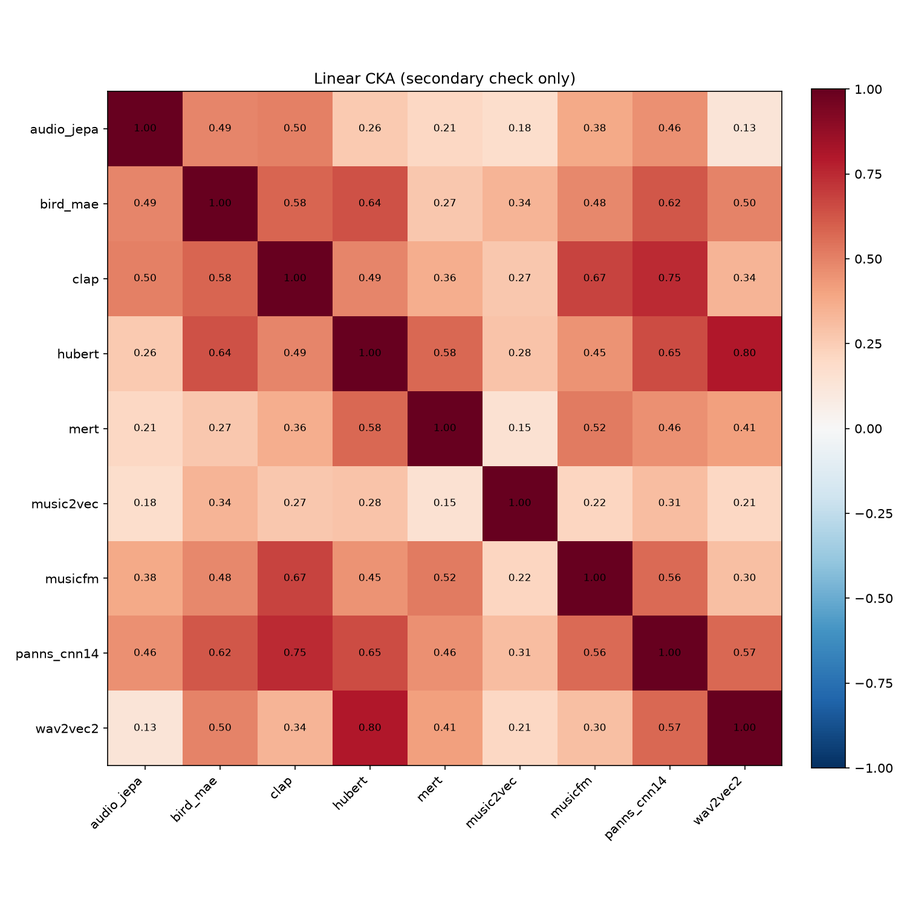
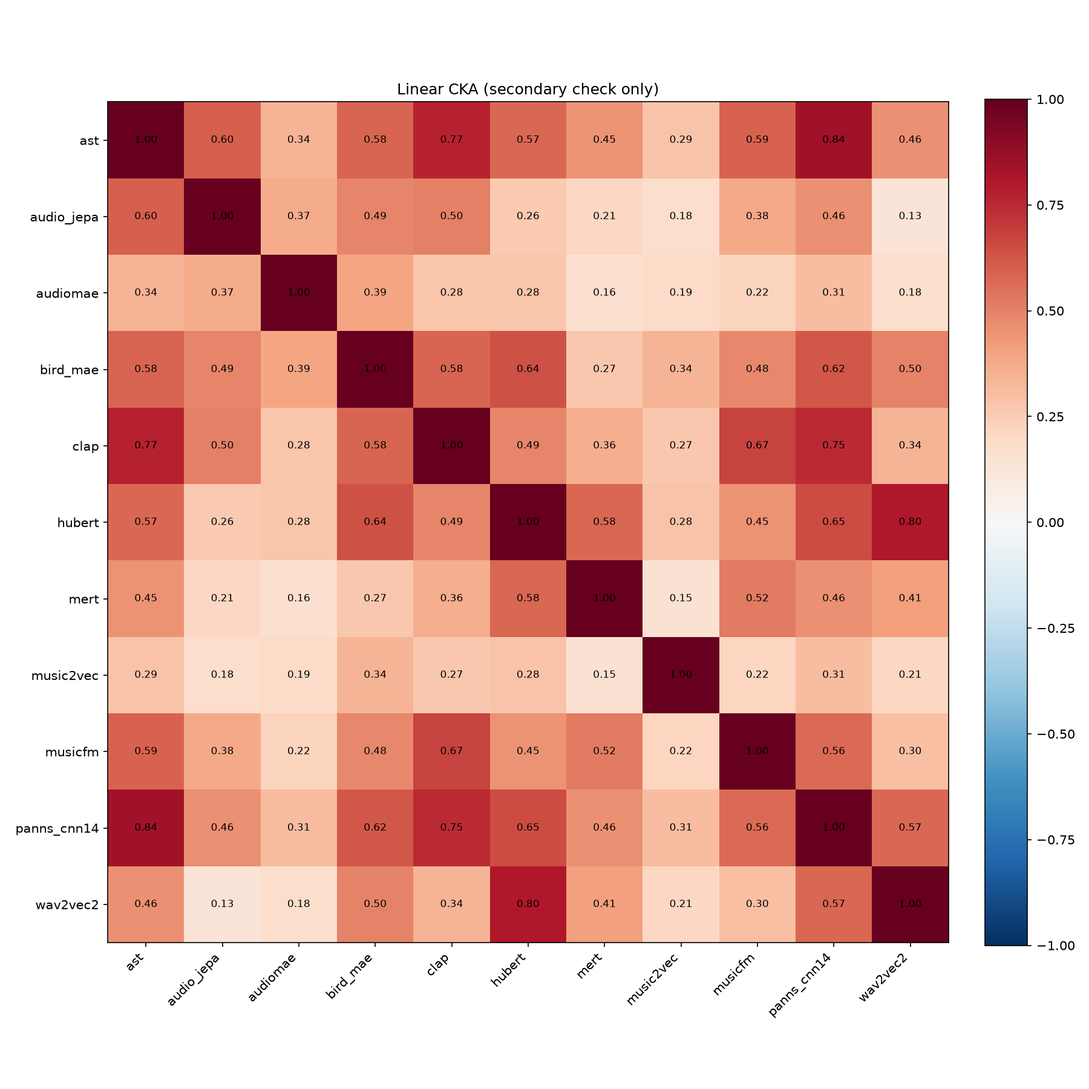
11-model results: breadth hypothesis strengthens further, AST refutes the "non-contrastive trades KNN for MLP" reading of PANNs/Bird-MAE
Breadth-hypothesis check re-run at 11 models (ast/audiomae both join
broad_mixed, both AudioSet-trained): permutation p=0.0000 (vs 9-model's
already-strong 0.0003), domain+paradigm stays at p=0.0082. Fourth
independent signal now pointing at breadth, more entrenched with every
model added.

BirdCLEF at 11 models: AST wins outright on both MLP (0.394, new best)
and KNN (0.239, new best) -- refutes the earlier reading that
non-contrastive/supervised objectives trade raw separability for
trainable-head-exploitability, since AST is also supervised and shows
none of that trade-off. Revised account: discriminative training
pressure (contrastive OR supervised-classification) produces both
raw-separable and trainable-head-exploitable embeddings; reconstruction
training (Bird-MAE, AudioMAE) shows the trade-off; PANNs' CNN
architecture may modulate how well supervision converts to separable
geometry. Separately, AudioMAE vs Bird-MAE (same objective, only domain
differs) is the cleanest isolated domain-relevance test so far and
confirms domain relevance is real and additive.

diff --git a/audio_comp/pipelines/breadth_hypothesis_check.py b/audio_comp/pipelines/breadth_hypothesis_check.py
@@ -44,22 +44,32 @@ DOMAIN_PARADIGM_GROUPS = {
     "jepa_general": ["audio_jepa"],
     "reconstruction_bioacoustic": ["bird_mae"],
     "supervised_cnn_general": ["panns_cnn14"],
+    "supervised_transformer_general": ["ast"],
+    "reconstruction_general": ["audiomae"],
 }
 
 # Training-distribution-breadth framing, per CLAUDE.md Stage 1(b)'s
-# original sketch, extended to the 2 models added 2026-08-10: panns_cnn14
-# trains on AudioSet (527 diverse everyday-sound classes spanning speech,
-# music, animals, vehicles, alarms -- genuinely broad content), so it
-# joins audio_jepa/clap in "broad_mixed". bird_mae trains exclusively on
-# BirdSet (bird vocalizations only) -- as narrow as hubert/wav2vec2's
-# speech-only or mert/musicfm's music-only corpora, just a third domain,
-# hence a new "narrow_bioacoustic" bucket rather than folding it into an
-# existing one.
+# original sketch, extended to the 4 models added 2026-08-10: panns_cnn14
+# and ast both train on AudioSet (527 diverse everyday-sound classes
+# spanning speech, music, animals, vehicles, alarms -- genuinely broad
+# content), so both join audio_jepa/clap in "broad_mixed". audiomae ALSO
+# trains on AudioSet (same breadth-of-DATA argument) -- included here on
+# the same principle, categorized by documented training-data breadth,
+# not by how well it happens to fit the RSA matrix; if it turns out to be
+# a poor fit for this group empirically (its RSA correlations with the
+# rest of broad_mixed are in fact much weaker than the other 4 members'
+# mutual correlations, ~0.3-0.5 vs ~0.55-0.84), that is itself honest
+# information about the limits of a pure data-breadth account, not a
+# reason to move it to a category invented to fit better. bird_mae trains
+# exclusively on BirdSet (bird vocalizations only) -- as narrow as
+# hubert/wav2vec2's speech-only or mert/musicfm's music-only corpora,
+# just a third domain, hence "narrow_bioacoustic" rather than folding it
+# into an existing one.
 BREADTH_GROUPS = {
     "narrow_speech": ["hubert", "wav2vec2"],
     "narrow_music": ["mert", "musicfm"],
     "narrow_bioacoustic": ["bird_mae"],
-    "broad_mixed": ["audio_jepa", "clap", "panns_cnn14"],
+    "broad_mixed": ["audio_jepa", "clap", "panns_cnn14", "ast", "audiomae"],
     "self_distillation_narrow_music": ["music2vec"],
 }
 

diff --git a/xares_eval/encoders/audiomae_encoder.py b/xares_eval/encoders/audiomae_encoder.py
@@ -1,0 +1,48 @@
+"""X-ARES encoder wrapper for AudioMAE.
+
+Reuses audio_comp's already-tested AudioMAEEncoder adapter (loading,
+resampling, fbank preprocessing) but skips the adapter's mean-pool and
+returns the raw (batch, 513, 768) `forward_encoder_no_mask()` output --
+cls token + 512 patch tokens, a genuine per-frame sequence, same
+category as AST/hubert/mert, not a single-frame workaround like
+CLAP/PANNs/Bird-MAE.
+"""
+from __future__ import annotations
+
+import torch
+
+from audio_comp.models import get_model_class
+from audio_comp.models.audiomae import _compute_fbank
+from xares_eval.encoders._util import probe_output_dim_and_hop, stack_ragged, to_numpy_mono
+
+
+class AudioMAEXaresEncoder(torch.nn.Module):
+    def __init__(self):
+        super().__init__()
+        self._adapter = get_model_class("audiomae")(device="cuda" if torch.cuda.is_available() else "cpu")
+        self._adapter.load()
+        self.sampling_rate = self._adapter.info.expected_sample_rate
+        self.output_dim, self.hop_size_in_ms = probe_output_dim_and_hop(self._forward_one_np, self.sampling_rate)
+
+    def _forward_one_np(self, waveform_np):
+        fbank = _compute_fbank(torch.from_numpy(waveform_np).unsqueeze(0), self.sampling_rate)
+        batch = fbank.unsqueeze(0).to(self._adapter.device)  # (1, 1, 1024, 128)
+        with torch.no_grad():
+            contextual_emb = self._adapter._model.forward_encoder_no_mask(batch)
+        return contextual_emb[0].cpu()
+
+    def forward(self, audio: torch.Tensor) -> torch.Tensor:
+        if audio.ndim == 1:
+            audio = audio.unsqueeze(0)
+        sequences = []
+        for row in audio:
+            waveform_np = to_numpy_mono(row)
+            sequences.append(self._forward_one_np(waveform_np))
+        return stack_ragged(sequences)
+
+
+if __name__ == "__main__":
+    from xares.audio_encoder_checker import check_audio_encoder
+
+    encoder = AudioMAEXaresEncoder()
+    assert check_audio_encoder(encoder)

diff --git a/xares_eval/encoders/ast_encoder.py b/xares_eval/encoders/ast_encoder.py
@@ -1,0 +1,48 @@
+"""X-ARES encoder wrapper for AST.
+
+Reuses audio_comp's already-tested ASTEncoder adapter for loading and
+resampling, but returns the unpooled last_hidden_state (X-ARES wants
+frame-level embeddings; audio_comp's adapter uses pooler_output for the
+RDM pipeline). AST has a genuine per-frame sequence (ViT-style patch
+tokens over the spectrogram, confirmed shape (1, 1214, 768) for a 2s
+probe clip) -- unlike CLAP/PANNs/Bird-MAE, no single-frame workaround
+needed here.
+"""
+from __future__ import annotations
+
+import torch
+
+from audio_comp.models import get_model_class
+from xares_eval.encoders._util import probe_output_dim_and_hop, stack_ragged, to_numpy_mono
+
+
+class ASTXaresEncoder(torch.nn.Module):
+    def __init__(self):
+        super().__init__()
+        self._adapter = get_model_class("ast")(device="cuda" if torch.cuda.is_available() else "cpu")
+        self._adapter.load()
+        self.sampling_rate = self._adapter.info.expected_sample_rate
+        self.output_dim, self.hop_size_in_ms = probe_output_dim_and_hop(self._forward_one_np, self.sampling_rate)
+
+    def _forward_one_np(self, waveform_np):
+        inputs = self._adapter._extractor([waveform_np], sampling_rate=self.sampling_rate, return_tensors="pt")
+        inputs = {k: v.to(self._adapter.device) for k, v in inputs.items()}
+        with torch.no_grad():
+            out = self._adapter._model(**inputs)
+        return out.last_hidden_state[0].cpu()
+
+    def forward(self, audio: torch.Tensor) -> torch.Tensor:
+        if audio.ndim == 1:
+            audio = audio.unsqueeze(0)
+        sequences = []
+        for row in audio:
+            waveform_np = to_numpy_mono(row)
+            sequences.append(self._forward_one_np(waveform_np))
+        return stack_ragged(sequences)
+
+
+if __name__ == "__main__":
+    from xares.audio_encoder_checker import check_audio_encoder
+
+    encoder = ASTXaresEncoder()
+    assert check_audio_encoder(encoder)

diff --git a/CLAUDE.md b/CLAUDE.md
@@ -38,15 +38,15 @@ Do not start Phase 2 until Phase 1 produces a clear read. Three possible outcome
 Phase 1 reached decision-rule outcome 2 (partial/cluster agreement) at 2000 clips/category, 7 models (see journal.md, 2026-08-09 entries). Rather than jumping straight to the single "Phase 2" experiment originally sketched above (consensus-distilled JEPA vs. single-teacher-distilled vs. from-scratch baseline), the plan is now staged so the project is publishable at a defensible floor even if later stages don't pan out. Contribution framing: the novelty target is understanding of representation space across audio foundation models, not a new architecture or training method. Floor = a Datasets & Benchmarks-track resource (reusable toolkit + curated multi-paradigm roster). Ceiling = a predictive account of what determines representational agreement and functional adaptability, validated against real downstream and OOD fine-tuning performance.
 
 - **Stage 0 — Foundation (complete).** Registry/adapter repo, RDM/RSA/CKA/TwoNN toolkit, `inspect_geometry.py` collapse-vs-idiosyncrasy diagnostic, 7 models running end-to-end on the 10,000-clip probe set. Two classification corrections already load-bearing: music2vec is data2vec-lineage not JEPA (no separate predictor network); audio_jepa (Tuncay et al.) confirmed genuine JEPA architecture, distinct from Fei et al.'s unreleased original A-JEPA.
-- **Stage 1 — Consolidate current findings (cheap, do first, no new extraction needed).** (a) **Done, 2026-08-10** — downstream functional probe via real X-ARES toolkit integration (`xares_eval/`) on the 3 overlapping tasks (FMA-genre, UrbanSound8K, LibriSpeech-ASR), all 7 models. **Headline finding (not a footnote to a null result): coarse domain-level cluster cohesion and fine-grained within-domain linear separability are different geometric axes that don't transfer.** This is more specific and more useful than either "geometry predicts function" or "geometry doesn't" — it tells you which geometric property to look for depending on what you're trying to predict, which is exactly what a Stage 6 diagnostic needs to be built on. Evidence (see journal, both 2026-08-10 entries): audio_jepa's coarse-domain cohesion (silhouette 0.60 on our own 5-category probe set, far ahead of every other model — nearly double CLAP's 0.31) does *not* transfer to X-ARES's fine-grained within-domain classification (only mid/lower-pack on both tasks; Spearman rho between our silhouette ranking and X-ARES MLP score = 0.357, p=0.43, not significant). audio_jepa's rank *does* improve modestly under kNN vs. MLP on both tasks, direction-consistent with the source paper's own cohesion/separability claim — real but not dramatic. CLAP's fine-grained dominance (best MLP on both tasks) despite only 2nd-place coarse silhouette points toward contrastive/discriminative training pressure (Wang & Isola alignment/uniformity-style) as a better explanatory variable than raw ID/cohesion. **Now formally computed, 2026-08-10** (`audio_comp/geometry/alignment_uniformity.py` — see Stage 6 below for the result, which upgrades but doesn't fully resolve this). (b) Breadth-hypothesis check — **Done, 2026-08-10** (`audio_comp/pipelines/breadth_hypothesis_check.py`, run at 9 models). Reframe from domain+paradigm to training-distribution-breadth (narrow-speech: hubert/wav2vec2; narrow-music: mert/musicfm; narrow-bioacoustic: bird_mae; broad-mixed: audio_jepa/clap/panns_cnn14; self-distillation-narrow-music: music2vec) explains the RSA matrix's structure at least as well as domain+paradigm and meaningfully more of it: mean-within-minus-mean-between RSA gap is comparable (breadth 0.360 vs. domain+paradigm 0.385) but far more statistically robust (permutation p=0.0003 vs. p=0.0095) and covers more of the roster (7/9 models land in a non-singleton group vs. 4/9) — domain+paradigm's apparent edge rests entirely on the two same-modality pairs breadth *also* captures identically; breadth additionally explains the real, significant `audio_jepa`/`clap`/`panns_cnn14` mutual agreement that domain+paradigm has no account for at all. **Adopted as the working explanation per the gate** — not because the raw gap is bigger, but because it's a strict extension of what domain+paradigm already captured plus real structure the old framing couldn't touch. (c) Written decision-rule outcome summary (outcome 2, now with breadth reframing + downstream-probe result folded in) — this alone is a publishable floor result. **Not started.**
+- **Stage 1 — Consolidate current findings (cheap, do first, no new extraction needed).** (a) **Done, 2026-08-10** — downstream functional probe via real X-ARES toolkit integration (`xares_eval/`) on the 3 overlapping tasks (FMA-genre, UrbanSound8K, LibriSpeech-ASR), all 7 models. **Headline finding (not a footnote to a null result): coarse domain-level cluster cohesion and fine-grained within-domain linear separability are different geometric axes that don't transfer.** This is more specific and more useful than either "geometry predicts function" or "geometry doesn't" — it tells you which geometric property to look for depending on what you're trying to predict, which is exactly what a Stage 6 diagnostic needs to be built on. Evidence (see journal, both 2026-08-10 entries): audio_jepa's coarse-domain cohesion (silhouette 0.60 on our own 5-category probe set, far ahead of every other model — nearly double CLAP's 0.31) does *not* transfer to X-ARES's fine-grained within-domain classification (only mid/lower-pack on both tasks; Spearman rho between our silhouette ranking and X-ARES MLP score = 0.357, p=0.43, not significant). audio_jepa's rank *does* improve modestly under kNN vs. MLP on both tasks, direction-consistent with the source paper's own cohesion/separability claim — real but not dramatic. CLAP's fine-grained dominance (best MLP on both tasks) despite only 2nd-place coarse silhouette points toward contrastive/discriminative training pressure (Wang & Isola alignment/uniformity-style) as a better explanatory variable than raw ID/cohesion. **Now formally computed, 2026-08-10** (`audio_comp/geometry/alignment_uniformity.py` — see Stage 6 below for the result, which upgrades but doesn't fully resolve this). (b) Breadth-hypothesis check — **Done, 2026-08-10, re-run at 11 models same day.** Reframe from domain+paradigm to training-distribution-breadth (narrow-speech: hubert/wav2vec2; narrow-music: mert/musicfm; narrow-bioacoustic: bird_mae; broad-mixed: audio_jepa/clap/panns_cnn14/ast/audiomae; self-distillation-narrow-music: music2vec) explains the RSA matrix's structure at least as well as domain+paradigm and meaningfully more of it, and the case only got stronger as models were added: at 9 models, gap was comparable (breadth 0.360 vs. domain+paradigm 0.385) but far more statistically robust (permutation p=0.0003 vs. p=0.0095); **at 11 models (adding `ast`/`audiomae`, both AudioSet-trained so both join `broad_mixed`), breadth's p-value is 0.0000 (0/20,000 random reshuffles matched the observed gap)** vs. domain+paradigm's p=0.0082, and breadth now covers 9/11 models in real groups vs. domain+paradigm's 4/11. `audiomae` is a weaker fit within `broad_mixed` than the other four (RSA 0.27-0.52 vs. their mutual 0.55-0.84) — included anyway per the documented-breadth criterion, not moved to fit better; that weaker fit is itself informative, not smoothed over. **This is now the fourth independent signal pointing at breadth** (original 10k pattern-break, audio_jepa/clap alignment, PANNs' correlations, AST's correlations) — **adopted as the working explanation per the gate**, more entrenched with every model added, not less. (c) Written decision-rule outcome summary (outcome 2, now with breadth reframing + downstream-probe result folded in) — this alone is a publishable floor result. **Not started.**
 - **Stage 2 — Curated model roster expansion (engineering-heavy, gap-filling not count-filling; formalized as a checkpoint-provenance + tiered plan 2026-08-10, superseding the original single-paragraph sketch below the table).** Add models that test a currently-missing axis, each verified against its primary paper before entering any comparison table (the music2vec lesson applies without exception). Every registered model now carries a `checkpoint_status` field (`audio_comp/models/base.py`) — `official_open_weights`, `official_public_weights_license_unclear`, `community_conversion`, or `code_only` — validated at registration time (`register_model()`) and enforced at resolution time (`get_model_class()` raises if a model without `official_open_weights` or a verified `official_public_weights_license_unclear` status is requested for actual use). This is a real gate, not just a documentation convention: a model can be registered (so the framework already models it) without being usable in `configs/models.yaml`'s `active_models` list until its status is upgraded. All 8 models currently registered (`clap`, `hubert`, `wav2vec2`, `mert`, `musicfm`, `music2vec`, `audio_jepa`, `beats`) are `official_open_weights` — `beats` specifically checked 2026-08-10: unilm's root LICENSE is MIT and the BEATs subdirectory's README defers to it with no separate/contrary statement for the checkpoint weights, read as MIT-covered by absence of any carve-out rather than an explicit per-checkpoint citation (judgment call, documented in `beats.py`'s docstring — re-verify if this becomes a redistribution question). `beats` staying in `deferred_models` is now confirmed to be **purely an engineering gap** (no native `transformers.from_pretrained` path, needs its own loader same as `musicfm`/`audio_jepa` already got) — **not** a checkpoint-availability blocker; worth implementing, not done in this pass.
 
   **Tier 1 (near-term — each fills a specific, currently-open representational gap):**
 
   | Model | Checkpoint status | Gap it fills | Status |
   |---|---|---|---|
-  | AudioMAE | official_open_weights | Reconstruction-target paradigm (raw spectrogram, not latent) — nothing in the current roster tests this | not started |
-  | AST | official_open_weights | Supervised training — tests whether label supervision matters independent of paradigm | not started |
+  | AudioMAE | official_open_weights | Reconstruction-target paradigm (raw spectrogram, not latent) — nothing in the current roster tests this | **wired up + validated 2026-08-10** (`audio_comp/models/audiomae.py`; needed 4 narrow version-skew shims, see module docstring; weakest of the AudioSet-trained models on BirdCLEF — see journal, consistent with its comparatively weak RSA fit within the breadth reframing's `broad_mixed` cluster) |
+  | AST | official_open_weights | Supervised training — tests whether label supervision matters independent of paradigm | **wired up + validated 2026-08-10** (`audio_comp/models/ast.py`; **wins BirdCLEF outright on both MLP and KNN** — refutes the earlier "non-contrastive objectives trade raw separability for trainable-head-exploitability" reading of the PANNs/Bird-MAE result, since AST is also supervised and shows none of that trade-off; see journal for the revised account) |
   | PANNs CNN14 | official_open_weights (verified 2026-08-10 against `github.com/qiuqiangkong/audioset_tagging_cnn` directly: MIT LICENSE.MIT, checkpoint on the authors' own Zenodo record) | Pure CNN architecture — every current model is transformer-based; untested ResNet-vs-ViT inductive-bias axis | **wired up + validated 2026-08-10** (`audio_comp/models/panns_cnn14.py`, active in `configs/models.yaml`; interim 9-model RSA/CKA/TwoNN pass and BirdCLEF re-run both complete — see journal for the architecture-axis prediction result, not supported) |
   | BirdMAE | official_public_weights_license_unclear (verified 2026-08-10: no LICENSE file in the GitHub repo — confirmed via GitHub's license API returning 404, not just undetected — and no license field on the HF card; genuinely unresolved, not a formality) | Domain-specific bioacoustic encoder; **also directly serves the `bird_sounds`/BirdCLEF X-ARES extension track (`xares_eval/birdclef/`) — one integration effort, not two** | **wired up + validated 2026-08-10** (`audio_comp/models/bird_mae.py`, active in `configs/models.yaml`; needed a version-skew shim for a transformers 4.38→5.15 incompatibility in the checkpoint's own vendored code — see module docstring; BirdCLEF re-run shows a real but nuanced result, see journal — beats CLAP on MLP, not on KNN, and PANNs shows the identical pattern despite no domain match, complicating a pure domain-relevance explanation) |
   | Perch 2.0 | official_public_weights_license_unclear — verify before use | Second independent bioacoustic-domain check; same dual-purpose note as BirdMAE | not started |
@@ -63,7 +63,7 @@ Phase 1 reached decision-rule outcome 2 (partial/cluster agreement) at 2000 clip
 
   **Gate for every addition, Tier 1 or 2, before any adapter code is written:** weights downloadable without private access; license permits research use; produces deterministic embeddings through a documented adapter; checkpoint_status verified against the model's **primary paper/repo directly, not a secondary source** — this is a hard requirement given the music2vec and A-JEPA/Audio-JEPA mix-ups already hit in this project, not optional diligence. Gate before Stage 3 continues to apply on top of this: every new adapter smoke-tested on short/edge-case clips (per the audio_jepa kaldi.fbank lesson), checked for dependency-version side effects (per the flash_attn/torch lesson). **The shortest edge-case clip must be tested standalone (batch size 1), not only inside a batch alongside a longer clip** — a short clip padded up to a longer clip's length inside a batch never actually exercises the short-input code path, and `extract_embeddings.py`/X-ARES both call `embed()`/`forward()` on individual clips in production. This blind spot caused a full-scale-only crash twice now with the same root shape (audio_jepa's kaldi.fbank window, 2026-08-09; panns_cnn14's pooling stack, 2026-08-10) — treat it as a permanent, non-optional item in the smoke-test checklist, not a lesson to relearn a third time.
 - **Stage 3 — Re-run the geometry toolkit at ~11 models.** Full RDM/RSA/CKA/TwoNN sweep on the same fixed probe set; re-test the breadth hypothesis with the new axes; re-run `inspect_geometry.py` per new model individually. **This is the point at which the Datasets & Benchmarks-track floor is fully met.** **Interim 9-model pass done 2026-08-10** (`panns_cnn14` + `bird_mae` only, not the full Tier 1 roster) — not the formal Stage 3 completion (that's ~11 models, 4 more Tier 1 additions still needed), but real signal already: PANNs' RSA agreement with the transformer-based models (mean 0.334) is *higher*, not lower, than the transformers' agreement with each other (mean 0.283) — no evidence architecture family is an independent geometry-shaping axis in this data, a clean negative result for that specific hypothesis. PANNs' two highest individual correlations (`audio_jepa` 0.60, `clap` 0.56) line up with the still-unstarted Stage 1(b) breadth-hypothesis grouping (broad-training-distribution models) better than paradigm or architecture do — second independent point in that reframing's favor.
-- **Stage 4 — Functional validation at the expanded roster.** Repeat Stage 1's downstream probe across all ~11 models; test whether the surviving explanatory variable predicts downstream accuracy, not just mutual RSA. **Interim check done 2026-08-10**: re-ran BirdCLEF (not the full 3-task X-ARES suite) with `panns_cnn14`/`bird_mae` added. BirdMAE beats CLAP on MLP (0.345 vs. 0.284) but not KNN (0.183 vs. 0.189) — real, but PANNs (no bioacoustic domain match at all) shows the *identical* MLP-wins/KNN-loses relationship to CLAP, which undercuts a pure domain-relevance explanation for BirdMAE's MLP edge. Sharper reading: CLAP's contrastive embedding space is more separable untrained (KNN), while PANNs' supervised and BirdMAE's reconstruction-MAE objectives both produce features a trained MLP head can exploit more, regardless of domain match. A genuine extension of the Stage 1(a) cohesion-vs-separability headline finding — now a three-way split (coarse cohesion / fine-grained separability / raw-separability-vs-trainable-head-exploitability), not fully resolved with only 9 models and 4 tasks. Full log in journal.md, 2026-08-10 entries.
+- **Stage 4 — Functional validation at the expanded roster.** Repeat Stage 1's downstream probe across all ~11 models; test whether the surviving explanatory variable predicts downstream accuracy, not just mutual RSA. **Interim check done 2026-08-10** (BirdCLEF only, not yet the full 3-task X-ARES suite), now complete at all 11 Tier-1-so-far models. Sequence of readings, each superseding the last as more models arrived: PANNs+Bird-MAE first suggested "non-contrastive objectives trade raw separability (KNN) for trainable-head-exploitability (MLP)" vs. CLAP. Adding AST (also supervised, but transformer not CNN, and it **wins BirdCLEF outright on both MLP and KNN** — 0.394/0.239, both best of 11) refuted that reading: supervision-as-a-category doesn't explain the earlier pattern, since AST shows none of it. **Current best account**: discriminative training pressure — contrastive (CLAP) *or* supervised classification with real labels (AST) — produces embeddings that are both raw-separable (high KNN) *and* trainable-head-exploitable (high MLP); these aren't in tension for discriminatively-trained models. Reconstruction training (Bird-MAE, AudioMAE) does show the earlier-observed trade-off (weaker KNN, still reasonable MLP). PANNs (supervised but CNN, weaker than AST on both) suggests architecture may modulate how well supervised pressure converts to separable geometry, without being disqualifying. Separately, the AudioMAE-vs-Bird-MAE pair (same reconstruction objective, only domain differs) is the cleanest isolated domain-relevance test run so far and says domain relevance is real and additive (Bird-MAE more than doubles AudioMAE's MLP and quadruples its KNN on the bird-specific task) — without reinstating domain-relevance as *the* explanation for Bird-MAE's earlier CLAP win, since PANNs (non-domain-matched) already showed that pattern too. A genuine, still-evolving extension of the Stage 1(a) cohesion-vs-separability headline finding, explicitly flagged as not settled — it needs to survive whatever Perch 2.0/EnCodecMAE show next, the same way the original PANNs/Bird-MAE reading didn't survive AST. Full log in journal.md, 2026-08-10 entries.
 - **Stage 5 — OOD fine-tuning extension (first half of the novelty ceiling).** Target: real vessel/underwater-acoustic data (genuinely OOD for every current model, and the actual eventual application domain — DeepShip's 63-clip GitHub subset, see journal 2026-08-10, is an early real-data preview of this axis, not yet the formal Stage 5 run). Matched lightweight adaptation (LoRA/small adapter, not full fine-tuning) on a fixed-size OOD training slice; measure final adapted performance and the few-shot learning curve; correlate against Stage 3's frozen-geometry metrics (ID, cohesion/separation index, RSA-cluster membership). Note for any write-up: this tests representation-*space* intrinsic dimension predicting adaptability — a different object from Aghajanyan/Gupta/Zettlemoyer (ACL 2021)'s fine-tuning *parameter-update* intrinsic dimension finding; same term, different space, state explicitly. Falsification is a legitimate outcome here too: no correlation just means geometry is descriptive but not predictive of adaptability.
 
   **Fine-tuning methodology (formalized 2026-08-10): two separate conditions, never blended.**

diff --git a/journal.md b/journal.md
@@ -274,3 +274,31 @@
 - **AudioMAE** (`audio_comp/models/audiomae.py`, `scripts/setup_audiomae.sh`): checkpoint provenance verified directly against `github.com/facebookresearch/AudioMAE` — CC-BY-4.0, explicitly stated to cover the whole project including weights (no judgment call needed here, unlike `beats`). Checkpoint (ViT-B, AudioSet-2M pretrained-only, not finetuned) downloaded from the repo's own README-linked Google Drive file via `gdown`. **Exact model-construction kwargs read directly out of the checkpoint's own saved `args` Namespace** (pretraining scripts save the full argparse config into the checkpoint dict) and cross-checked against the state dict's own tensor shapes (`pos_embed` (1,513,768) => 512 patches + cls token, matching img_size=(1024,128) at patch_size=16) — not assumed from the README or guessed, the same discipline as every other checkpoint-provenance check this session.
   - **Four separate, genuine version-skew issues hit and fixed, all with narrow documented shims, none with a global downgrade**: (1) `util/misc.py` does `from torch._six import inf` — removed in PyTorch 2.0 (project runs 2.11.0); (2) the repo's `Block(..., qk_scale=...)` call needs an old timm API modern timm removed — pinned `timm==0.4.9` project-wide (safe: confirmed via `pip show timm`'s empty `Required-by` that nothing else in the roster depends on timm, so no shared-dependency risk like the flash_attn/torch incident); (3) that same old-timm-required `Block.qk_scale` conflicts with the checkpoint's `decoder_mode=1` Swin-based decoder needing a *newer* timm `SwinTransformerBlock` API (`feat_size`/`drop_attn` args) — no single timm version has both APIs (tested 0.3.2, 0.4.9, 0.4.12, 1.0.28); resolved by constructing with `decoder_mode=0` instead (the decoder is never used — `forward_encoder_no_mask()` only touches the encoder) and loading the state dict with `strict=False`, with an explicit runtime assertion that every unmatched key is decoder-prefixed, so the encoder's correctness is *verified*, not assumed; (4) `util/pos_embed.py`'s sin-cos position-embedding initializer uses `np.float`, removed in numpy >=1.24 — restored as a one-line alias, harmless since that initial value is immediately overwritten wholesale by `load_state_dict` anyway. Smoke-tested clean afterward, including the standalone 60ms edge case.
 - Both added to `configs/models.yaml`'s `active_models` (now 11 total). Full-probe-set extraction submitted for both (jobs 54068294 `ast`, 54068295 `audiomae`) — results pending, 11-model RSA/CKA/TwoNN re-run and BirdCLEF re-run to follow once extraction completes.
+
+## 2026-08-10 (cont'd) — 11-model results land: breadth confirmed stronger, and the KNN/MLP story gets a real correction
+
+- Full-probe extraction succeeded for both new models (10,000 embeddings each, `ast` 768-d, `audiomae` 768-d). X-ARES encoders written (`xares_eval/encoders/ast_encoder.py`, `audiomae_encoder.py` — both use the real per-frame sequence, unlike CLAP/PANNs/Bird-MAE's pooled-single-frame workaround: AST has a genuine ViT patch-token sequence, AudioMAE's `forward_encoder_no_mask()` returns one before the adapter's own mean-pool), smoke-tested clean, BirdCLEF re-run submitted alongside the 11-model RSA/CKA/TwoNN re-run.
+
+- **Breadth-hypothesis check, re-run at 11 models — even more decisive than at 9.** `ast` and `audiomae` both trained on AudioSet (broad, diverse general-audio data, same argument already applied to `panns_cnn14`), so both join `broad_mixed` (now 5 members: `audio_jepa`, `clap`, `panns_cnn14`, `ast`, `audiomae` — categorized by documented training-data breadth, not by how well each one happens to fit the group; `audiomae`'s actual RSA correlations with the rest of the group are noticeably weaker (0.27-0.52) than the other four's mutual correlations (0.55-0.84), and it's included anyway rather than moved to a category invented to fit better — that weaker fit is itself honest information, not smoothed over). Result: breadth's permutation p-value is now **0.0000** (0/20,000 reshuffles matched or exceeded the observed gap) vs. domain+paradigm's p=0.0082 — even stronger than the 9-model result's already-clear 0.0003 vs. 0.0095. Breadth's raw gap (0.330) is now a bit further below domain+paradigm's (0.370) than at 9 models (`audiomae`'s weaker fit pulls the group average down), but the significance gap widened anyway, because breadth is now explaining 12 real within-group pairs (the 5-way `broad_mixed` cluster alone contributes 10) against domain+paradigm's same thin 2 — a much harder pattern to produce by chance. Breadth now covers 9/11 models in real (non-singleton) groups vs. domain+paradigm's 4/11. **This is now the fourth independent thing in this project pointing at breadth** (the original 10k-scale pattern break, `audio_jepa`/`clap` alignment, PANNs' correlations, and now AST's correlations landing in the same cluster) — the working explanation keeps getting more entrenched every time a new model is added, not less.
+
+- **BirdCLEF, full 11-model table (MLP / KNN, chance = 0.02):**
+
+  | Model | MLP | KNN |
+  |---|---|---|
+  | **ast** | **0.394** | **0.239** |
+  | bird_mae | 0.345 | 0.183 |
+  | panns_cnn14 | 0.308 | 0.134 |
+  | clap | 0.284 | 0.189 |
+  | hubert | 0.260 | 0.068 |
+  | mert | 0.250 | 0.068 |
+  | musicfm | 0.247 | 0.113 |
+  | audiomae | 0.167 | 0.039 |
+  | music2vec | 0.121 | 0.049 |
+  | audio_jepa | 0.089 | 0.043 |
+  | wav2vec2 | 0.049 | 0.035 |
+
+  - **AST wins outright on both metrics** — not a trade-off, a clean sweep, beating `bird_mae`'s previous-best MLP (0.345) and `clap`'s previous-best KNN (0.189). This directly answers the question AST was added to test ("is it supervision specifically, or is it PANNs specifically" driving PANNs'/Bird-MAE's MLP-wins/KNN-loses-to-CLAP pattern): **it's not supervision as a category.** AST is also supervised, also AudioSet-trained, and shows *none* of PANNs'/Bird-MAE's/AudioMAE's KNN weakness relative to CLAP — it beats CLAP's KNN outright. The clean "non-contrastive objectives trade raw separability for trainable-head-exploitability" story from the earlier PANNs/Bird-MAE entry does not survive AST's addition as originally stated.
+  - **The AudioMAE-vs-Bird-MAE pair is the cleanest isolated domain-relevance test run in this project so far, and it says domain relevance is real.** Same training objective (reconstruction-MAE) on both, only the training domain differs (AudioMAE: general AudioSet; Bird-MAE: bird-only BirdSet) — and Bird-MAE wins by a wide margin on the bird-specific task (MLP 0.345 vs. 0.167, more than double; KNN 0.183 vs. 0.039, more than 4x). Unlike the earlier PANNs-vs-Bird-MAE comparison (different objectives, so domain-relevance and objective were confounded), this pair holds objective constant and isolates domain match cleanly. Worth restating precisely: this doesn't reinstate domain-relevance as *the* explanation for Bird-MAE's earlier win over CLAP (PANNs, non-domain-matched, still showed that pattern too) — it establishes that domain relevance is a real, additional, independently-acting effect on top of whatever the objective-driven pattern is.
+  - **Revised account, replacing "non-contrastive trades KNN for MLP" with something that survives AST:** what actually separates the roster isn't contrastive-vs-not, it's closer to **discriminative training pressure (contrastive, like CLAP, *or* supervised classification with real labels, like AST) produces embeddings that are well-separated in raw distance (high KNN) *and* trainable-head-exploitable (high MLP) — these two properties aren't in tension for discriminatively-trained models.** Reconstruction-based training (Bird-MAE, AudioMAE) produces comparatively weaker raw separability (lower KNN) while still being reasonably MLP-trainable, i.e. *that* pairing does show the earlier-observed trade-off. PANNs (supervised but CNN, weaker on both metrics than AST despite the same AudioSet supervision) suggests architecture may modulate how well supervised training pressure gets converted into separable geometry, but isn't disqualifying on its own — PANNs still clearly outperforms every reconstruction-trained and self-supervised model except Bird-MAE and CLAP. Flagging this as the current best account, not a settled one — it now needs to survive whatever Perch 2.0 or EnCodecMAE show, the same way the original account didn't survive AST.
+  - `audiomae`'s weakness here (worst of the AudioSet-trained models, barely above the weakest self-supervised models) is consistent with, not contradicted by, its notably weaker RSA fit within `broad_mixed` above — both point the same direction: general-domain reconstruction training produces a geometry that's the least "typical" member of the broad-training cluster, on both the RSA-agreement axis and the downstream-function axis.
+- Results appended to `results/xares_results.csv` and `results/rsa_matrix.csv`/`cka_matrix.csv`/`intrinsic_dimension.csv` via the existing pipelines, unmodified.
